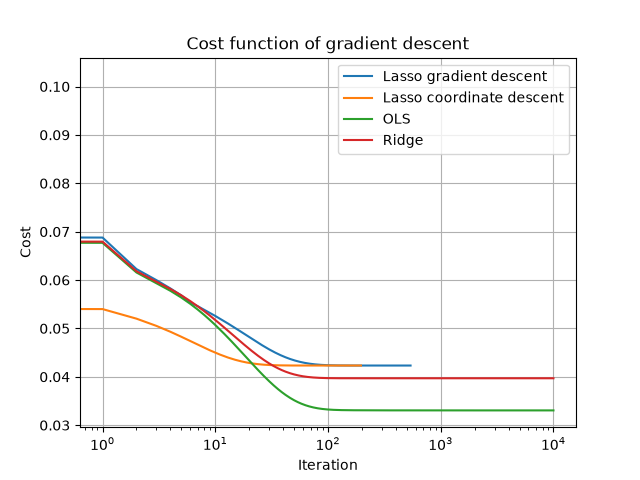
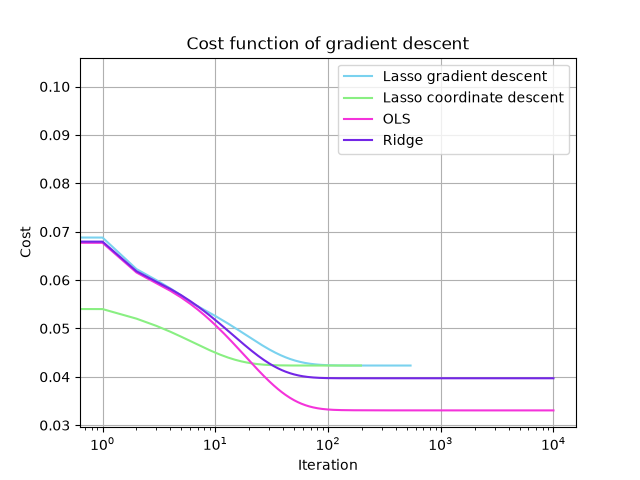
PIIIIINK

diff --git a/Project_1/Code/_Part_h.py b/Project_1/Code/_Part_h.py
@@ -26,12 +26,13 @@ H_Ridge = 2.0 / len(y) * X.T @ X + 2 * lam * np.eye(X.shape[1])
 gamma_max_OLS = 2.0 / np.linalg.eigvalsh(H_OLS).max()
 gammas_OLS = [0.01 * gamma_max_OLS, 0.1 * gamma_max_OLS, 0.5 * gamma_max_OLS]
 labels_gamma = [r"$0.01\, \gamma_{\max}$", r"$0.1\, \gamma_{\max}$", r"$0.5\, \gamma_{\max}$"]
+colors = ["#F433DA", "#7326E6", "#84BCED"]
 
-for gamma, label in zip(gammas_OLS, labels_gamma):
+for gamma, label, color in zip(gammas_OLS, labels_gamma, colors):
     hist, n_gamma = sgd(X, y, n_epochs=100, batch_size=5, gamma=gamma, lmbda = lam)
     cost_gamma = cost_history(hist, X, y, penalty = "None")
 
-    plt.plot(cost_gamma, label = label)
+    plt.plot(cost_gamma, label = label, color = color)
 
 """Plot of cost as for different learning rates"""
 plt.title("Cost function for different learning rates")
@@ -42,7 +43,7 @@ plt.yscale("log")
 plt.legend()
 plt.grid()
 plt.tight_layout()
-#plt.savefig("Part_h_cost_learningrates.png")
+plt.savefig("Part_h_cost_learningrates.png")
 plt.show()
 
 
@@ -50,11 +51,11 @@ plt.show()
 batches = [10, 20, 30, 40]
 labels_M = [f"$M = {batches[0]}$", f"$M = {batches[1]}$", f"$M = {batches[2]}$", f"$M = {batches[3]}$"]
 
-for M, label in zip(batches, labels_M):
+for M, label, color in zip(batches, labels_M, colors):
     hist, n_M = sgd(X, y, n_epochs=100, batch_size=M, gamma=gamma_max_OLS)
     cost_M = cost_history(hist, X, y, penalty = "None")
     
-    plt.plot(cost_M, label = label)
+    plt.plot(cost_M, label = label, color = color)
     
 """Plot of cost as for different batch sizes"""
 plt.title("Cost function for different batch sizes")
@@ -65,7 +66,7 @@ plt.yscale("log")
 plt.legend()
 plt.grid()
 plt.tight_layout()
-#plt.savefig("Part_h_cost_batchsize.png")
+plt.savefig("Part_h_cost_batchsize.png")
 plt.show()
 
 
@@ -103,10 +104,10 @@ print(f"theta: |sgd - gd| = {np.max(np.abs(history_Ridge[-1] - history_Ridge_sgd
 
 
 """Plot of cost vs iteration"""
-plt.plot(cost_OLS, label = "OLS GD", color = "C0")
-plt.plot(cost_OLS_sgd, label = "OLS SGD", color = "C0", linestyle = "--")
-plt.plot(cost_Ridge, label = "Ridge GD", color = "C1")
-plt.plot(cost_Ridge_sgd, label = "Ridge SGD", color = "C1", linestyle = "--")
+plt.plot(cost_OLS, label = "OLS GD", color = "#F433DA")
+plt.plot(cost_OLS_sgd, label = "OLS SGD", color = "#F433DA", linestyle = "--", alpha = 0.4)
+plt.plot(cost_Ridge, label = "Ridge GD", color = "#7326E6")
+plt.plot(cost_Ridge_sgd, label = "Ridge SGD", color = "#7326E6", linestyle = "--", alpha = 0.4)
 plt.xlabel("Iteration")
 plt.ylabel("Cost")
 plt.title("Cost function of stochastic gradient descent")
@@ -115,5 +116,5 @@ plt.yscale("log")
 plt.grid()
 plt.tight_layout()
 plt.legend()
-#plt.savefig("Part_h_sgd_OLS_Ridge.png")
+plt.savefig("Part_h_sgd_OLS_Ridge.png")
 plt.show()

diff --git a/Project_1/Code/_Part_g.py b/Project_1/Code/_Part_g.py
@@ -69,10 +69,10 @@ print(f"theta: |skl - cd| = {np.max(np.abs(theta_skl_lasso - history_lasso_cd[-1
 
 
 """Plot of cost vs iteration"""
-plt.plot(cost_Lasso_gd, label = "Lasso gradient descent")
-plt.plot(cost_Lasso_cd, label = "Lasso coordinate descent")
-plt.plot(cost_OLS, label = "OLS")
-plt.plot(cost_Ridge, label = "Ridge")
+plt.plot(cost_Lasso_gd, label = "Lasso gradient descent", color = "#7AD2EF")
+plt.plot(cost_Lasso_cd, label = "Lasso coordinate descent", color = "#89EF82")
+plt.plot(cost_OLS, label = "OLS", color = "#F433DA")
+plt.plot(cost_Ridge, label = "Ridge", color = "#7326E6")
 plt.xlabel("Iteration")
 plt.ylabel("Cost")
 plt.title("Cost function of gradient descent")
